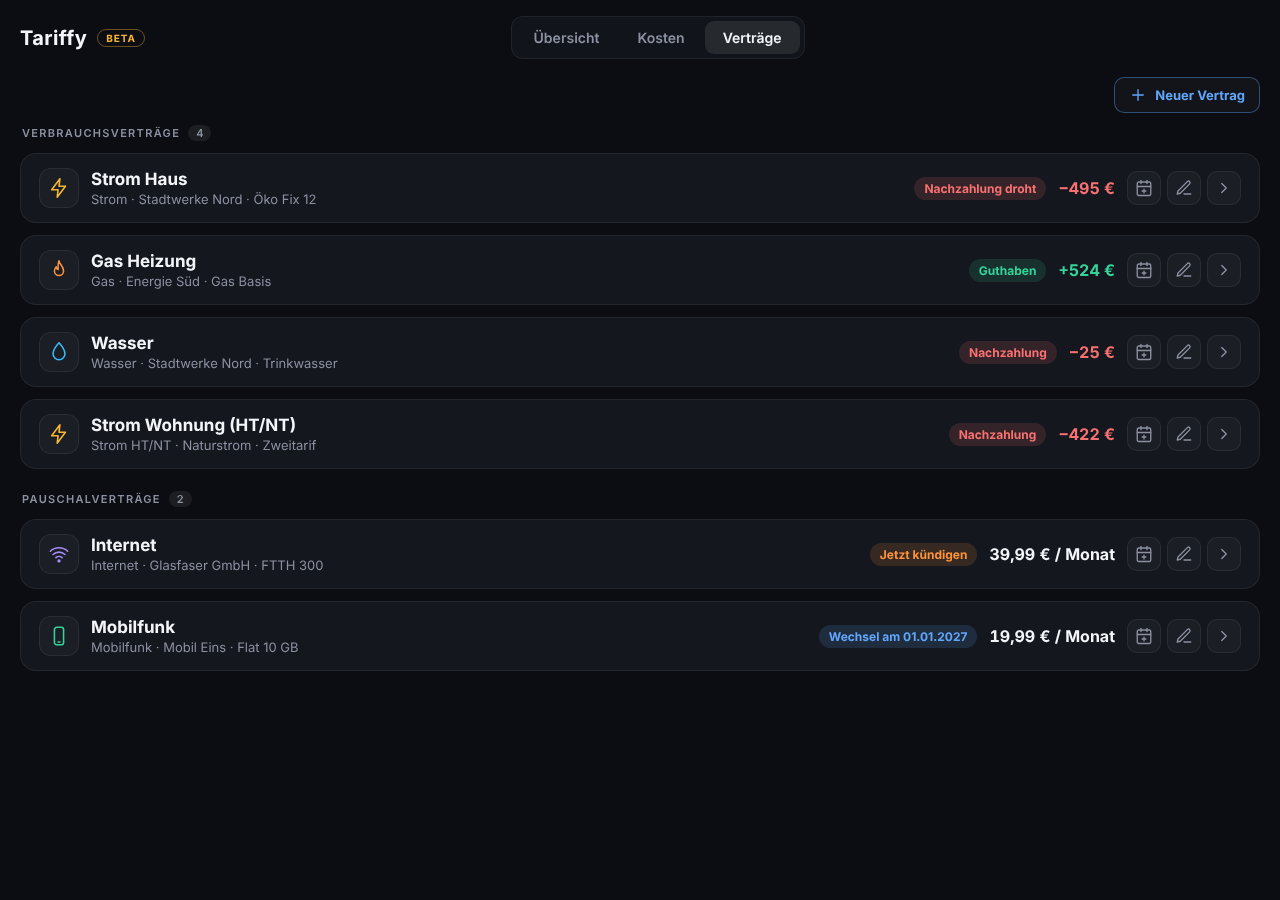
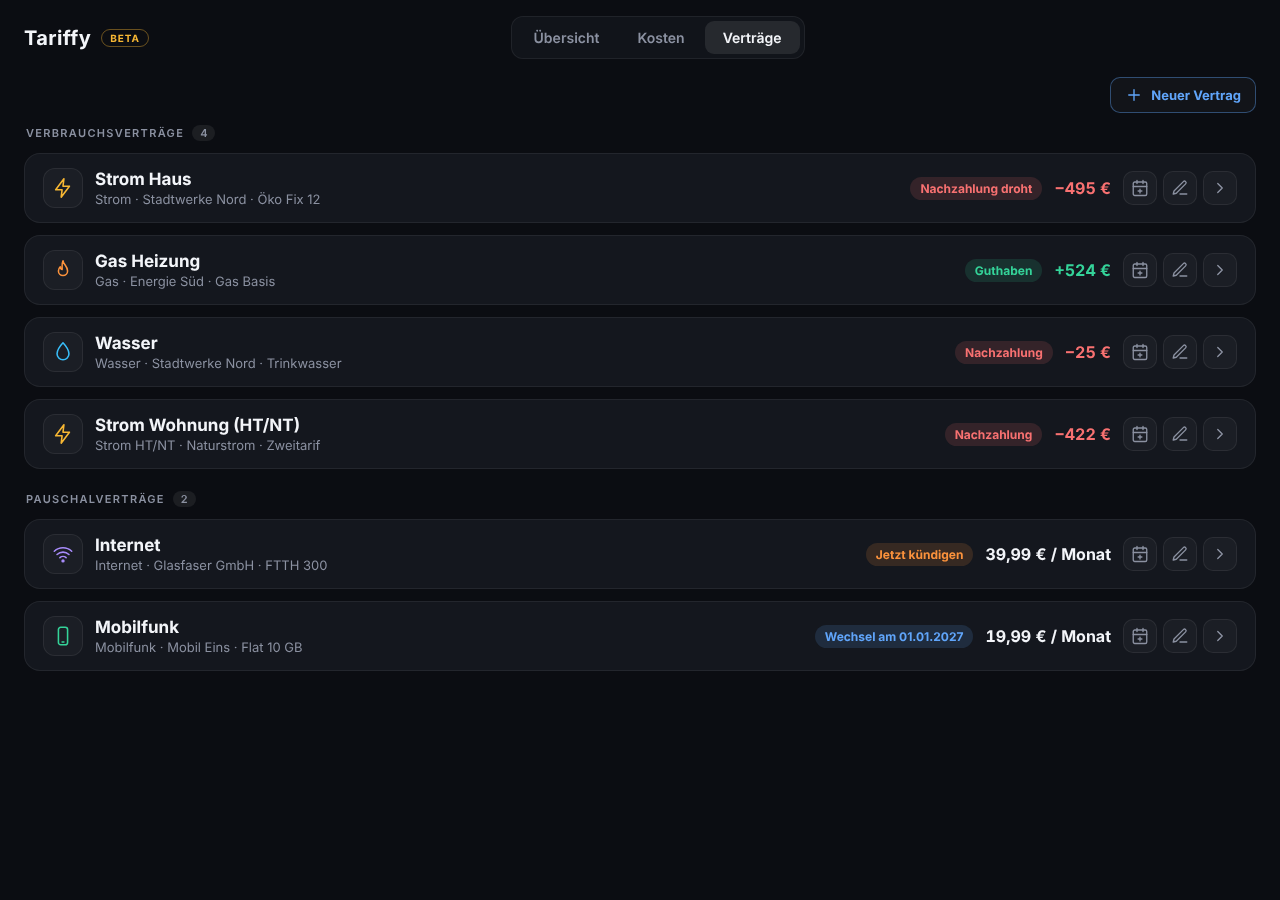
Tariffy 1.27.0-rc.2: whole window width, detailed header, aligned cost tables (#34)
* Tariffy 1.27.0-rc.2: use the whole width of the window

Claude-Session: https://claude.ai/code/session_011wNPKqgRVqpMfNb2Np7XaH

* Panel: detailed header of the overview, aligned cost tables

Claude-Session: https://claude.ai/code/session_011wNPKqgRVqpMfNb2Np7XaH

* Panel: overall total as a row of the cost table grid

Claude-Session: https://claude.ai/code/session_011wNPKqgRVqpMfNb2Np7XaH

---------

diff --git a/custom_components/tariffy/frontend/tariffy-panel.js b/custom_components/tariffy/frontend/tariffy-panel.js
@@ -19,7 +19,7 @@ const I18N = {
     monthlyTotal: "Instalments per month",
     forecastTotal: "Forecast at contract end",
     forecastSub: "{n} of {m} contracts with metering",
-    nextDeadline: "Next date",
+    nextDates: "Next dates", perYear: "≈ {v} / year", shortMetered: "Metered", shortFlat: "Flat rate", dueSoFar: "Instalments due so far: {v}",
     nothingPlanned: "Nothing planned",
     inDays: "in {n} days", today: "today", tomorrow: "tomorrow",
     credit: "Credit", balanceDue: "Balance due",
@@ -96,7 +96,7 @@ const I18N = {
     monthlyTotal: "Abschläge pro Monat",
     forecastTotal: "Prognose zum Vertragsende",
     forecastSub: "{n} von {m} Verträgen mit Verbrauchsmessung",
-    nextDeadline: "Nächster Termin",
+    nextDates: "Nächste Termine", perYear: "≈ {v} / Jahr", shortMetered: "Verbrauch", shortFlat: "Pauschal", dueSoFar: "Fällige Abschläge bisher: {v}",
     nothingPlanned: "Nichts geplant",
     inDays: "in {n} Tagen", today: "heute", tomorrow: "morgen",
     credit: "Guthaben", balanceDue: "Nachzahlung",
@@ -168,6 +168,8 @@ const I18N = {
 const SVG_NS = "http://www.w3.org/2000/svg";
 const TABS = ["overview", "costs", "contracts"];
 // contracts that are billed by consumption; everything else (internet, mobile, ...) is a flat rate
+// column widths shared by the cost tables, so that their columns line up
+const GRID = ["24%", "15.2%", "15.2%", "15.2%", "15.2%", "15.2%"];
 const METERED = new Set(["electricity", "electricity_ht_nt", "gas", "water"]);
 const TAB_KEY = "tariffy-panel-tab";
 
@@ -215,7 +217,8 @@ const STYLE = `
   container-type: inline-size;
 }
 * { box-sizing: border-box; }
-.wrap { max-width: 1280px; margin: 0 auto; padding: 16px 20px 40px; }
+/* use the whole width of the window; the cap only keeps ultra-wide monitors readable */
+.wrap { max-width: 2400px; margin: 0 auto; padding: 16px 24px 40px; }
 .top { display: flex; align-items: center; gap: 12px; flex-wrap: wrap; margin-bottom: 18px; }
 .brand { display: flex; align-items: center; gap: 10px; font-size: 20px; font-weight: 700; letter-spacing: .02em; }
 .pill { font-size: 10px; font-weight: 700; letter-spacing: .1em; text-transform: uppercase; color: var(--gold);
@@ -229,25 +232,37 @@ const STYLE = `
 .tab:focus-visible, summary:focus-visible, a:focus-visible { outline: 2px solid var(--blue); outline-offset: 2px; }
 .spacer { width: 90px; }
 
-.summary { display: grid; grid-template-columns: repeat(3, 1fr); gap: 14px; margin-bottom: 18px; }
-.sum { background: var(--panel); border: 1px solid var(--line); border-radius: 16px; padding: 14px 18px; }
+.summary { display: grid; grid-template-columns: repeat(2, 1fr); gap: 14px; margin-bottom: 18px; }
+@container (min-width: 1100px) { .summary { grid-template-columns: repeat(4, 1fr); } }
+.sum { background: var(--panel); border: 1px solid var(--line); border-radius: 16px; padding: 14px 18px; min-width: 0; }
 .label { font-size: 11px; font-weight: 600; letter-spacing: .09em; text-transform: uppercase; color: var(--muted); }
 .sum .value { font-size: 26px; font-weight: 700; margin-top: 6px; font-variant-numeric: tabular-nums; }
 .sum .sub { font-size: 12px; color: var(--muted); margin-top: 2px; }
+.split { display: flex; height: 7px; margin-top: 12px; border-radius: 4px; overflow: hidden; gap: 2px; background: rgba(255,255,255,.07); }
+.split span { display: block; height: 100%; }
+.legend { display: flex; flex-wrap: wrap; gap: 2px 14px; margin-top: 8px; font-size: 12px; color: var(--muted); }
+.legend b { color: var(--text); font-weight: 600; font-variant-numeric: tabular-nums; }
+.legend i { display: inline-block; width: 8px; height: 8px; border-radius: 50%; margin-right: 6px; }
+.mini { margin-top: 10px; display: grid; gap: 0; }
+.mrow { display: flex; justify-content: space-between; gap: 10px; padding: 5px 0; border-top: 1px solid var(--line); font-size: 12px; color: var(--muted); }
+.mrow .n { min-width: 0; }
+.mrow .n b { color: var(--text); font-weight: 600; font-variant-numeric: tabular-nums; }
+.mrow .v { flex: none; font-weight: 600; font-variant-numeric: tabular-nums; color: var(--text); }
 
 /* two groups: metered contracts (big cards) and flat-rate contracts (slim cards), each in rows of equal height */
 .group { margin-top: 22px; }
 .group:first-of-type { margin-top: 0; }
 .group-title { display: flex; align-items: center; gap: 8px; margin: 0 0 12px 2px; font-size: 11px; font-weight: 600;
   letter-spacing: .12em; text-transform: uppercase; color: var(--muted); }
-.grand { display: flex; flex-wrap: wrap; align-items: center; gap: 6px 22px; margin-top: 18px; padding: 12px 16px; border-radius: 14px;
-  background: var(--panel); border: 1px solid var(--line); font-size: 14px; color: var(--muted); }
-.grand b { color: var(--text); font-variant-numeric: tabular-nums; }
+/* the overall total is a row of its own in the same column grid as the tables above */
+.grand-table { margin-top: 18px; table-layout: fixed; }
+.grand-table td { font-weight: 700; border-bottom: 0; background: var(--panel2); }
 .group-title .count { font-size: 11px; letter-spacing: 0; padding: 1px 8px; border-radius: 999px; background: rgba(255,255,255,.07); }
 .grid { display: grid; grid-template-columns: repeat(auto-fill, minmax(360px, 1fr)); gap: 16px; align-items: stretch; }
 .grid.flat { grid-template-columns: repeat(auto-fill, minmax(300px, 1fr)); }
-/* wide screens: three contracts per row in both groups */
+/* wide screens: three contracts per row in both groups, four on a very wide window */
 @container (min-width: 1000px) { .grid.metered, .grid.flat { grid-template-columns: repeat(3, 1fr); } }
+@container (min-width: 1750px) { .grid.metered, .grid.flat { grid-template-columns: repeat(4, 1fr); } }
 section.card { display: flex; flex-direction: column; }
 section.card .foot { margin-top: auto; padding-top: 12px; }
 .card.flat .big { font-size: 28px; }
@@ -349,6 +364,7 @@ section.card .foot { margin-top: auto; padding-top: 12px; }
 .callout.orange { border-color: rgba(251,146,60,.35); background: rgba(251,146,60,.07); color: #fed7aa; }
 .callout.blue { border-color: rgba(96,165,250,.3); background: rgba(96,165,250,.06); color: #bfdbfe; }
 
+.group table { table-layout: fixed; }
 table { width: 100%; border-collapse: collapse; background: var(--panel); border: 1px solid var(--line); border-radius: 16px; overflow: hidden; }
 th, td { padding: 12px 14px; text-align: right; font-variant-numeric: tabular-nums; border-bottom: 1px solid var(--line); }
 th:first-child, td:first-child { text-align: left; }
@@ -401,6 +417,7 @@ details[open] summary .caret svg { transform: rotate(90deg); }
   .sum { display: grid; grid-template-columns: 1fr auto; align-items: center; padding: 12px 14px; }
   .sum .value { font-size: 20px; margin: 0; grid-column: 2; grid-row: 1 / span 2; }
   .sum .sub { grid-column: 1; }
+  .sum .split, .sum .legend, .sum .mini { grid-column: 1 / -1; }
   .tiles { grid-template-columns: 1fr 1fr; }
   .tiles .tile:last-child:nth-child(odd) { grid-column: 1 / -1; }
   .grid, .grid.flat { grid-template-columns: 1fr; gap: 12px; }
@@ -410,6 +427,7 @@ details[open] summary .caret svg { transform: rotate(90deg); }
   .big { font-size: 28px; }
   .ring, .ring svg { width: 76px; height: 76px; }
   table, thead, tbody, tr, td { display: block; }
+  colgroup, td:empty { display: none; }
   thead { display: none; }
   table { background: transparent; border: 0; border-radius: 0; }
   tr { background: var(--panel); border: 1px solid var(--line); border-radius: 14px; margin-bottom: 10px; padding: 8px 14px; }
@@ -741,47 +759,83 @@ class TariffyPanel extends HTMLElement {
   _summary() {
     const contracts = this._contracts;
     const currency = contracts[0].currency || "EUR";
-    const monthly = contracts.reduce((sum, c) => sum + (isNum(c.abschlag) ? c.abschlag : 0), 0);
-    const withMetering = contracts.filter((c) => isNum(c.prognose_real));
-    const forecast = withMetering.reduce((sum, c) => sum + c.prognose_real, 0);
+    const metered = contracts.filter((c) => METERED.has(c.sparte));
+    const flat = contracts.filter((c) => !METERED.has(c.sparte));
+    const sum = (list, fn) => list.reduce((s, c) => s + (fn(c) || 0), 0);
+    const money = (v, o = {}) => this._money(v, currency, o);
+    const tone = (value) => (value < 0 ? "red-t" : value > 0 ? "green-t" : "");
 
+    // instalments: per month, split by kind of contract, and what that makes per year
+    const monthlyMetered = sum(metered, (c) => c.abschlag);
+    const monthlyFlat = sum(flat, (c) => c.abschlag);
+    const monthly = monthlyMetered + monthlyFlat;
+
+    // costs so far: measured for metered contracts, instalments due for flat-rate ones
+    const costs = sum(contracts, (c) => this._costSoFar(c));
+    const due = sum(metered, (c) => (isNum(c.kosten_bisher) && isNum(c.guthaben_bisher) ? c.kosten_bisher + c.guthaben_bisher : 0))
+      + sum(flat, (c) => c.abschlag_bisher_gezahlt);
+    const withBalance = metered.filter((c) => isNum(c.guthaben_bisher));
+    const balance = sum(withBalance, (c) => c.guthaben_bisher);
+
+    // forecast at contract end, worst first
+    const withMetering = contracts.filter((c) => isNum(c.prognose_real));
+    const forecast = sum(withMetering, (c) => c.prognose_real);
+    const worstFirst = [...withMetering].sort((a, b) => a.prognose_real - b.prognose_real).slice(0, 4);
+
+    // the next dates: cancellation deadline, switch, contract end; one entry per contract and date
     const candidates = [];
     for (const c of contracts) {
       const endDays = this._days(c.ende);
       if (c.erinnerung_aktiv && endDays !== null && endDays >= 0) {
-        candidates.push({ days: endDays, rank: 0, text: `${this._t("cancelDue")} · ${c.title}`, date: c.ende });
+        candidates.push({ days: endDays, rank: 0, key: `${c.entry_id}${c.ende}`, text: `${this._t("cancelDue")} · ${c.title}`, date: c.ende });
       }
       const switchDays = this._days(c.wechsel);
       if (switchDays !== null && switchDays >= 0) {
-        candidates.push({ days: switchDays, rank: 1, text: this._t("switchOn", { d: this._date(c.wechsel) }) + ` · ${c.title}`, date: c.wechsel });
+        candidates.push({ days: switchDays, rank: 1, key: `${c.entry_id}${c.wechsel}`, text: this._t("switchOn", { d: this._date(c.wechsel) }) + ` · ${c.title}`, date: c.wechsel });
       }
       if (endDays !== null && endDays >= 0) {
-        candidates.push({ days: endDays, rank: 2, text: `${this._t("contractEnd")} · ${c.title}`, date: c.ende });
+        candidates.push({ days: endDays, rank: 2, key: `${c.entry_id}${c.ende}`, text: `${this._t("contractEnd")} · ${c.title}`, date: c.ende });
       }
     }
-    candidates.sort((a, b) => a.rank - b.rank || a.days - b.days);
-    const urgent = candidates.find((x) => x.rank === 0);
-    const next = urgent || candidates.sort((a, b) => a.days - b.days)[0];
-
+    candidates.sort((a, b) => a.days - b.days || a.rank - b.rank);
+    const seen = new Set();
+    const dates = candidates.filter((x) => (seen.has(x.key) ? false : seen.add(x.key))).slice(0, 3);
     const rel = (days) => (days === 0 ? this._t("today") : days === 1 ? this._t("tomorrow") : this._t("inDays", { n: days }));
-    const tone = (value) => (value < 0 ? "red-t" : value > 0 ? "green-t" : "");
+
+    const row = (name, value, cls) => h("div", { class: "mrow" },
+      h("span", { class: "n" }, name), h("span", { class: `v ${cls || ""}`, text: value }));
+    const segment = (value, color) => (value > 0 ? h("span", { style: `width:${(value / monthly * 100).toFixed(1)}%;background:${color}` }) : null);
+    const legend = (color, label, value) => (value > 0 ? h("span", {}, h("i", { style: `background:${color}` }), `${label} `, h("b", { text: money(value, { digits: 2 }) })) : null);
 
     return h(
       "div", { class: "summary" },
       h("div", { class: "sum" },
         h("div", { class: "label", text: this._t("monthlyTotal") }),
-        h("div", { class: "value", text: this._money(monthly, currency, { digits: 2 }) })),
+        h("div", { class: "value", text: money(monthly, { digits: 2 }) }),
+        h("div", { class: "sub", text: this._t("perYear", { v: money(monthly * 12) }) }),
+        monthly > 0 ? h("div", { class: "split" }, segment(monthlyMetered, "var(--blue)"), segment(monthlyFlat, "#a78bfa")) : null,
+        monthly > 0 ? h("div", { class: "legend" },
+          legend("var(--blue)", this._t("shortMetered"), monthlyMetered), legend("#a78bfa", this._t("shortFlat"), monthlyFlat)) : null),
+      h("div", { class: "sum" },
+        h("div", { class: "label", text: this._t("colCost") }),
+        h("div", { class: "value", text: money(costs, { digits: 2 }) }),
+        h("div", { class: "sub", text: this._t("dueSoFar", { v: money(due) }) }),
+        withBalance.length ? h("div", { class: "mini" }, row(this._t("saldoShort"), money(balance, { sign: true, digits: 2 }), tone(balance))) : null),
       h("div", { class: "sum" },
         h("div", { class: "label", text: this._t("forecastTotal") }),
         h("div", { class: `value ${withMetering.length ? tone(forecast) : "muted-t"}`,
-          text: withMetering.length ? this._money(forecast, currency, { sign: true }) : "–" }),
-        h("div", { class: "sub", text: this._t("forecastSub", { n: withMetering.length, m: contracts.length }) })),
+          text: withMetering.length ? money(forecast, { sign: true }) : "–" }),
+        h("div", { class: "sub", text: this._t("forecastSub", { n: withMetering.length, m: contracts.length }) }),
+        worstFirst.length ? h("div", { class: "mini" }, worstFirst.map((c) => row(c.title, money(c.prognose_real, { sign: true }), tone(c.prognose_real)))) : null),
       h("div", { class: "sum" },
-        h("div", { class: "label", text: this._t("nextDeadline") }),
-        h("div", { class: "value", text: next ? this._date(next.date) : "–" }),
-        h("div", { class: "sub", text: next ? `${next.text} · ${rel(next.days)}` : this._t("nothingPlanned") }))
+        h("div", { class: "label", text: this._t("nextDates") }),
+        h("div", { class: "value", text: dates.length ? this._date(dates[0].date) : "–" }),
+        h("div", { class: "sub", text: dates.length ? `${dates[0].text} · ${rel(dates[0].days)}` : this._t("nothingPlanned") }),
+        dates.length > 1 ? h("div", { class: "mini" }, dates.slice(1).map((x) => row(
+          h("span", {}, h("b", { text: this._date(x.date) }), ` ${x.text}`), rel(x.days)))) : null)
     );
   }
+
 
   _chips(chips) {
     return h("div", { class: "chips" }, chips.map((chip) => h("span", { class: `chip ${chip.tone}`, text: chip.text })));
@@ -1432,22 +1486,27 @@ class TariffyPanel extends HTMLElement {
       cell(this._t("colInstalment"), money(sum(metered, "abschlag"))),
       h("td", { text: "" })));
 
-    // flat-rate contracts: no consumption, so the cost so far is what was due, and the term
+    // flat-rate contracts: no consumption, so the cost so far is what was due, and the term.
+    // Cost so far (2nd column) and instalment (5th column) sit exactly below those of the table above.
     const flatRows = flat.map((c) => h("tr", {},
       name(c),
       cell(this._t("colCost"), this._money(this._costSoFar(c), c.currency, { digits: 2 })),
-      cell(this._t("colInstalment"), this._money(c.abschlag, c.currency, { digits: 2 })),
+      cell(this._t("remaining"), isNum(c.restlaufzeit) ? this._t("daysLeft", { n: c.restlaufzeit }) : "–"),
       cell(this._t("contractEnd"), c.ende ? this._date(c.ende) : this._t("noEnd")),
-      cell(this._t("remaining"), isNum(c.restlaufzeit) ? this._t("daysLeft", { n: c.restlaufzeit }) : "–")));
+      cell(this._t("colInstalment"), this._money(c.abschlag, c.currency, { digits: 2 })),
+      h("td", { class: "empty" })));
     flatRows.push(h("tr", { class: "total" },
       h("td", { text: this._t("total") }),
       cell(this._t("colCost"), money(sumCost(flat))),
+      h("td", { text: "" }), h("td", { text: "" }),
       cell(this._t("colInstalment"), money(sum(flat, "abschlag"))),
-      h("td", { text: "" }), h("td", { text: "" })));
+      h("td", { text: "" })));
 
     const group = (key, list, heads, rows) => (list.length ? h("section", { class: "group" },
       h("h3", { class: "group-title" }, h("span", { text: this._t(key) }), h("span", { class: "count", text: String(list.length) })),
       h("table", {},
+        // both tables share one column grid (the 6th column is empty in the flat-rate table)
+        h("colgroup", {}, GRID.map((width) => h("col", { style: `width:${width}` }))),
         h("thead", {}, h("tr", {}, heads.map((label) => h("th", { text: label })))),
         h("tbody", {}, rows))) : null);
 
@@ -1458,12 +1517,16 @@ class TariffyPanel extends HTMLElement {
         this._t("colForecast"), this._t("colInstalment"), this._t("colRecommended"),
       ], meteredRows),
       group("groupFlat", flat, [
-        this._t("colContract"), this._t("colCost"), this._t("colInstalment"), this._t("contractEnd"), this._t("remaining"),
+        this._t("colContract"), this._t("colCost"), this._t("remaining"), this._t("contractEnd"), this._t("colInstalment"), "",
       ], flatRows),
-      h("div", { class: "grand" },
-        h("span", { class: "label", text: this._t("grandTotal") }),
-        h("span", {}, `${this._t("colCost")} `, h("b", { text: money(sumCost(contracts)) })),
-        h("span", {}, `${this._t("colInstalment")} `, h("b", { text: money(sum(contracts, "abschlag")) }))),
+      h("table", { class: "grand-table" },
+        h("colgroup", {}, GRID.map((width) => h("col", { style: `width:${width}` }))),
+        h("tbody", {}, h("tr", { class: "grandrow" },
+          h("td", { text: this._t("grandTotal") }),
+          cell(this._t("colCost"), money(sumCost(contracts))),
+          h("td", { text: "" }), h("td", { text: "" }),
+          cell(this._t("colInstalment"), money(sum(contracts, "abschlag"))),
+          h("td", { text: "" })))),
       h("div", { class: "hint", text: this._t("costsHint") })
     );
   }

diff --git a/docs/wiki/Panel.md b/docs/wiki/Panel.md
@@ -24,8 +24,8 @@ Das Panel folgt der Sprache von Home Assistant (Deutsch, sonst Englisch) und pas
 
 | Ansicht | Inhalt |
 |---|---|
-| **Übersicht** | Oben die Summe der Abschläge pro Monat, die Prognose zum Vertragsende (nur Verträge mit Verbrauchsmessung) und der nächste Termin (Kündigungsfrist, Vertragsende oder Wechsel). Darunter zwei Gruppen mit je einer Karte pro Vertrag: **Verbrauchsverträge** (Strom, Gas, Wasser) und **Pauschalverträge** (Internet, Mobilfunk, Versicherung, Sonstiges). Die Karten sind nach dem Zustand getönt (grün Guthaben, rot Nachzahlung, orange Kündigung fällig). Eine Verbrauchskarte zeigt die Prognose zum Vertragsende als große Zahl neben dem Laufzeit-Ring, höchstens drei Zahlen (Kosten bisher, Saldo bisher, Verbrauch), die gezahlten Abschläge gegen die Kosten, die Restlaufzeit und Hinweise. Eine Pauschalkarte zeigt den Abschlag pro Monat, die Kosten bisher und das Vertragsende samt Laufzeit-Balken, ohne Ring und ohne Verbrauch. In der Übersicht gibt es keine Bearbeitungs-Aktionen. |
-| **Kosten** | Zwei Tabellen wie in der Übersicht. **Verbrauchsverträge:** Kosten bisher, Saldo bisher, Saldo zum Vertragsende, Abschlag und empfohlener Abschlag. **Pauschalverträge:** Kosten bisher (die bis heute fälligen Abschläge), Abschlag, Vertragsende und Restlaufzeit; Saldo und Prognose gibt es dort nicht. Jede Tabelle hat eine Summenzeile, darunter steht die Gesamtsumme. |
+| **Übersicht** | Oben vier Kacheln: die **Abschläge pro Monat** (mit Jahreswert und einem Balken, der Verbrauchs- und Pauschalverträge aufteilt), die **Kosten bisher** (mit den bis heute fälligen Abschlägen und dem Saldo), die **Prognose zum Vertragsende** (mit der Prognose je Vertrag, die schlechteste zuerst; nur Verträge mit Verbrauchsmessung) und die **nächsten Termine** (Kündigungsfrist, Wechsel, Vertragsende). Darunter zwei Gruppen mit je einer Karte pro Vertrag: **Verbrauchsverträge** (Strom, Gas, Wasser) und **Pauschalverträge** (Internet, Mobilfunk, Versicherung, Sonstiges). Die Karten sind nach dem Zustand getönt (grün Guthaben, rot Nachzahlung, orange Kündigung fällig). Eine Verbrauchskarte zeigt die Prognose zum Vertragsende als große Zahl neben dem Laufzeit-Ring, höchstens drei Zahlen (Kosten bisher, Saldo bisher, Verbrauch), die gezahlten Abschläge gegen die Kosten, die Restlaufzeit und Hinweise. Eine Pauschalkarte zeigt den Abschlag pro Monat, die Kosten bisher und das Vertragsende samt Laufzeit-Balken, ohne Ring und ohne Verbrauch. In der Übersicht gibt es keine Bearbeitungs-Aktionen. |
+| **Kosten** | Zwei Tabellen wie in der Übersicht. **Verbrauchsverträge:** Kosten bisher, Saldo bisher, Saldo zum Vertragsende, Abschlag und empfohlener Abschlag. **Pauschalverträge:** Kosten bisher (die bis heute fälligen Abschläge), Restlaufzeit, Vertragsende und Abschlag; Saldo und Prognose gibt es dort nicht. Beide Tabellen haben dasselbe Spaltenraster, „Kosten bisher“ und „Abschlag“ stehen also untereinander. Jede Tabelle hat eine Summenzeile, darunter steht die Gesamtsumme. |
 | **Verträge** | In denselben zwei Gruppen pro Vertrag aufklappbare Details: Vertragsdaten, Preise, Verbrauch, Empfehlungen. Hier stehen auch **alle Aktionen, die einen Vertrag ändern**, als Symbole in jeder Zeile (Kalender: Folgevertrag planen oder bearbeiten, Stift: Vertrag bearbeiten) und oben der Button **Neuer Vertrag** (nur Administratoren). |
 
 Vorzeichen: **Plus** ist Guthaben, **Minus** ist Nachzahlung. „Zum Vertragsende" ist aus dem bisherigen Verbrauch hochgerechnet. Deckt ein Guthaben die Kosten bis zum Vertragsende schon ab, steht beim empfohlenen Abschlag „0,00 €" mit dem Hinweis „Guthaben deckt die Kosten", nie ein negativer Betrag. Alle Werte sind dieselben wie bei den Sensoren und aktualisieren sich von selbst.

diff --git a/docs/wiki/English.md b/docs/wiki/English.md
@@ -194,8 +194,8 @@ The **Tariffy panel** is a page of its own in the Home Assistant sidebar. It sho
 
 | View | Content |
 |---|---|
-| **Overview** | Monthly instalments in total, forecast at contract end (contracts with consumption metering only) and the next date (cancellation deadline, contract end or switch); below two groups with one card per contract: **metered contracts** (electricity, gas, water) and **flat-rate contracts** (internet, mobile, insurance, other). The cards are tinted by their state (green credit, red balance due, orange cancellation due). A metered card shows the forecast at contract end as the big figure next to the progress ring, at most three figures (cost so far, balance so far, consumption), instalments paid vs. cost, the remaining term and notes. A flat-rate card shows the monthly instalment, the cost so far and the contract end with a term bar, without ring and consumption. The overview has no editing actions. |
-| **Costs** | Two tables like the overview. **Metered contracts:** cost so far, balance so far, balance at contract end, instalment and recommended instalment. **Flat-rate contracts:** cost so far (the instalments due until today), instalment, contract end and remaining term; there is no balance or forecast. Each table has a total row, the overall total sits below |
+| **Overview** | Four tiles on top: the **monthly instalments** (with the yearly figure and a bar that splits metered and flat-rate contracts), the **cost so far** (with the instalments due until today and the balance), the **forecast at contract end** (per contract, the worst first; contracts with consumption metering only) and the **next dates** (cancellation deadline, switch, contract end); below two groups with one card per contract: **metered contracts** (electricity, gas, water) and **flat-rate contracts** (internet, mobile, insurance, other). The cards are tinted by their state (green credit, red balance due, orange cancellation due). A metered card shows the forecast at contract end as the big figure next to the progress ring, at most three figures (cost so far, balance so far, consumption), instalments paid vs. cost, the remaining term and notes. A flat-rate card shows the monthly instalment, the cost so far and the contract end with a term bar, without ring and consumption. The overview has no editing actions. |
+| **Costs** | Two tables like the overview. **Metered contracts:** cost so far, balance so far, balance at contract end, instalment and recommended instalment. **Flat-rate contracts:** cost so far (the instalments due until today), remaining term, contract end and instalment; there is no balance or forecast. Both tables share one column grid, so "cost so far" and "instalment" sit exactly below each other. Each table has a total row, the overall total sits below |
 | **Contracts** | Expandable details per contract, in the same two groups: contract data, prices, consumption, recommendations. This is also where **everything that changes a contract** lives, as icons in each row (calendar: plan or edit the next contract, pencil: edit the contract) and the button **New contract** at the top (administrators only) |
 
 Plus is credit, minus is balance due. When the credit already covers the costs until contract end, the recommended instalment shows "0.00 €" with the note "Credit covers the costs", never a negative amount. The values are the sensors' values and update by themselves.

diff --git a/custom_components/tariffy/CHANGELOG.md b/custom_components/tariffy/CHANGELOG.md
@@ -7,6 +7,16 @@ das Projekt folgt [Semantic Versioning](https://semver.org/lang/de/).
 
 ## [Unreleased]
 
+## [1.27.0-rc.2] - 2026-11-06
+
+Zweiter Release Candidate zum Testen des Seitenleisten-Panels. Das Panel nutzt die ganze Breite des Fensters, die Kopfzeile der Übersicht hat mehr Details, und die Kostentabellen stehen untereinander ausgerichtet. Bitte melde Probleme mit dem Bug-Formular und nenne diese genaue Version.
+
+### Changed
+
+- Die Kopfzeile der Übersicht hat vier Kacheln mit Details: die Abschläge pro Monat (mit Jahreswert und einem Balken, der Verbrauchs- und Pauschalverträge aufteilt), die Kosten bisher (mit den bis heute fälligen Abschlägen und dem Saldo), die Prognose zum Vertragsende (je Vertrag, die schlechteste zuerst) und die nächsten drei Termine.
+- Die beiden Tabellen der Ansicht "Kosten" und die Gesamtzeile haben dasselbe Spaltenraster: "Kosten bisher" und "Abschlag" stehen untereinander, auch in der Gesamtzeile (Pauschal-Tabelle: Kosten bisher, Restlaufzeit, Vertragsende, Abschlag).
+- Das Panel nutzt die ganze Breite des Fensters, statt bei 1280 px abgeschnitten und zentriert zu sein (die Grenze liegt jetzt bei 2400 px, nur für Ultrabreit-Monitore). Die Übersicht behält drei Verträge pro Zeile und bekommt bei einem sehr breiten Fenster (ab 1750 px) eine vierte Spalte.
+
 ## [1.27.0-rc.1] - 2026-11-06
 
 Gleicher Inhalt wie 1.27.0-beta.10, unter neuem Namen noch einmal veröffentlicht: GitHub listet `beta.10` zwischen `beta.2` und `beta.1`, deshalb hat HACS es nicht angeboten. Bitte diese Version installieren (siehe "Beta-Versionen" in der Dokumentation; die Zählung geht jetzt mit `rc.2`, `rc.3`, ... weiter). Bitte melde Probleme mit dem Bug-Formular und nenne diese genaue Version.

diff --git a/CHANGELOG.md b/CHANGELOG.md
@@ -7,6 +7,16 @@ and this project adheres to [Semantic Versioning](https://semver.org/spec/v2.0.0
 
 ## [Unreleased]
 
+## [1.27.0-rc.2] - 2026-11-06
+
+Second release candidate for testing the sidebar panel. The panel uses the whole width of the window, the header of the overview has more details and the cost tables line up. Please report problems with the bug report form and mention this exact version.
+
+### Changed
+
+- The header of the overview has four tiles with details: the instalments per month (with the yearly figure and a bar that splits metered and flat-rate contracts), the cost so far (with the instalments due until today and the balance), the forecast at contract end (per contract, worst first) and the next three dates.
+- The two tables of the "Costs" view and the overall total share one column grid: "cost so far" and "instalment" sit exactly below each other, also in the overall total row (flat-rate table: cost so far, remaining term, contract end, instalment).
+- The panel uses the whole width of the window instead of being capped at 1280 px and centred (the cap is now 2400 px, only for ultra-wide monitors). The overview keeps three contracts per row and gets a fourth column on a very wide window (1750 px and more).
+
 ## [1.27.0-rc.1] - 2026-11-06
 
 Same content as 1.27.0-beta.10, released again under a new name: GitHub lists `beta.10` between `beta.2` and `beta.1`, so HACS did not offer it. Please install this version (see "Beta releases" in the documentation; the numbering now continues with `rc.2`, `rc.3`, ...). Please report problems with the bug report form and mention this exact version.
